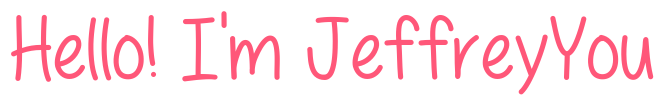
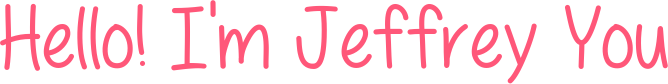
Update README.md

diff --git a/README.md b/README.md
@@ -1,9 +1,8 @@
-<p align="center"><img width="40%" src="./assets/header.png" /></p>
+<p align="center"><img width="50%" src="./assets/header.png" /></p>
 
 <p align="center">
 <img src="https://readme-typing-svg.demolab.com?font=Fira+Code&size=21&pause=1000&color=FF5779&background=FFFFFF00&center=true&width=435&lines=Stay+Hungry+Stay+Foolish;And+Never+Settle" alt="Typing SVG" />
 </p>
-
 ### Hi there, I am Jeffrey You 👋
 
 
